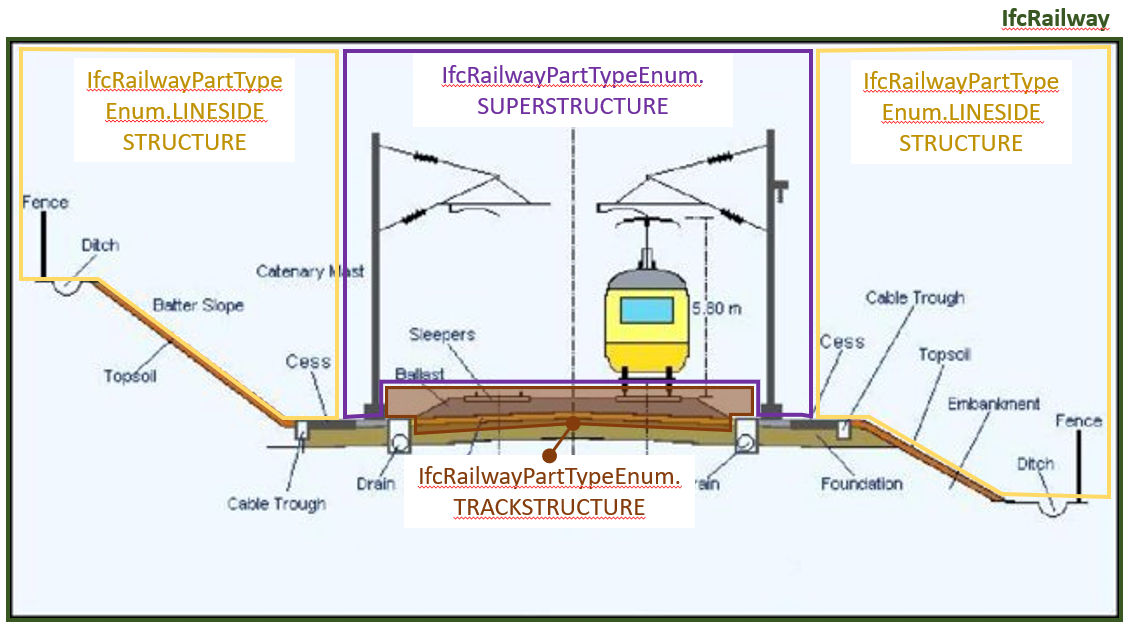
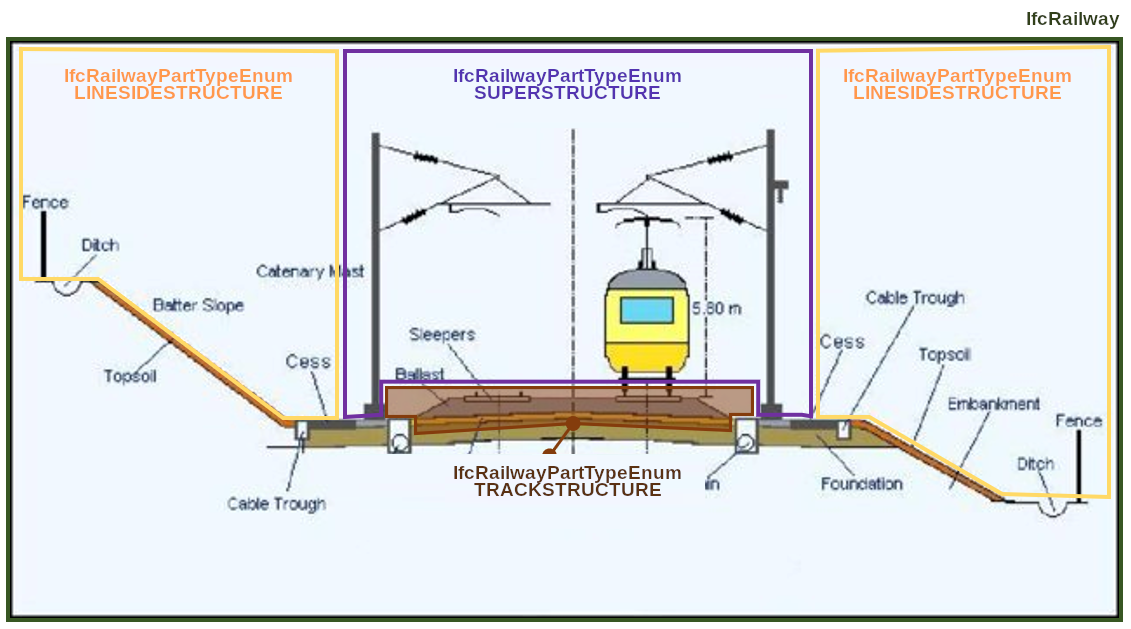
#287. Fix broken and spelling mistake in infrastructure images.

diff --git a/docs/schemas/resource/IfcGeometricModelResource/Entities/IfcSectionedSurface.md b/docs/schemas/resource/IfcGeometricModelResource/Entities/IfcSectionedSurface.md
@@ -2,18 +2,27 @@
 
 A kind of surface constructed by sweeping potentially varying open cross sections along a curve horizontally (or near horizontally). The surface is generated by sweeping the CrossSections between CrossSectionPositions; linear interpolation is assumed, unless transitions curves between cross section points are indicated by OpenCrossProfileDef.Tags.
 The CrossSections are oriented with the Y axis of each profile facing upwards in +Z direction or vertically perpendicular to the Directrix, depending on the Attribute FixedAxisVertical value.
-![sectioned surfacequot;](../../../../figures/IfcSectionedSurface_1.png Figure 1 &mdash; Sectioned surface using _IfcOpenCrossProfileDef_")
+
+![sectioned surface](../../../../figures/IfcSectionedSurface_1.png)
+
+Figure 1 &mdash; Sectioned surface using _IfcOpenCrossProfileDef_
 
 In case of branching longitudinal breaklines, the SectionedSurface may use OpenCrossProfileDef instances with varying number of cross section points. In that case, the point in two consecutive cross sections that are connected are identified by the same tag value.
-![sectioned surfacequot;](../../../../figures/IfcSectionedSurface_2.png Figure 1 &mdash; Sectioned surface with branching longitudinal breaklines")
+
+![sectioned surface](../../../../figures/IfcSectionedSurface_2.png)
+
+Figure 2 &mdash; Sectioned surface with branching longitudinal breaklines
 
 **Formal propositions:**
+
 * The curve entity which is the underlying directrix shall have the dimensionality of 3.
 * The profile type shall be CURVE within the list of the profiles defining the cross sections.
 * The entity type for each section must be the same.
 * The list of cross sections and the list of cross section positions shall be of the same size.
 
-**Informal Propositions:** No two consecutive sections shall intersect.
+**Informal Propositions:**
+
+* No two consecutive sections shall intersect.
 * If the directrix is not tangent continuous, the resulting surface is created by a miter at half angle between the two segments.
 * Very sharp edges may result in nearly impossible miter; implementer agreements may define acceptable limits for tangent discontinuity or require the directrix to be tangent continuous.
 * The directrix shall not intersect

diff --git a/docs/schemas/domain/IfcRailDomain/Types/IfcRailwayPartTypeEnum.md b/docs/schemas/domain/IfcRailDomain/Types/IfcRailwayPartTypeEnum.md
@@ -8,7 +8,10 @@ The spatial structure of a railway is sub-divided into several elements for late
 * SUPERSTRUCTURE is for the upper part of the railway (vertical decomposition).
 * LINESIDESTRUCTURE is for the lateral part of the railway (lateral decomposition).
 
-![Railway vertical and lateral spatial decomposition ](../../../../figures/IfcRailwayPartTypeEnum-global.png "Figure 1 &mdash; Railway decomposition")
+![Railway vertical and lateral spatial decomposition ](../../../../figures/IfcRailwayPartTypeEnum-global.png)
+
+Figure 1 &mdash; Railway decomposition
+
 The subpart of the railway is generally either a _IfcFacilityPartCommonTypeEnum_ BELOWGROUND (non constructed ground) or SUBSTRUCTURE (constructed ground).
 
 TRACKSTRUCTURE could have longitudinal decomposition based on track specificities:
@@ -18,7 +21,9 @@ TRACKSTRUCTURE could have longitudinal decomposition based on track specificitie
 * TURNOUTSUPERSTRUCTURE for the area of turnouts (_IfcElementAssemblyTypeEnum_ TURNOUTPANEL).
 * TRACKSTRUCTUREPART for generic longitudinal decomposition if needed.
 
-![Railway vertical and lateral spatial decomposition ](../../../../figures/IfcRailwayPartTypeEnum-track.png "Figure 2 &mdash; Track longitudinal decomposition")
+![Railway vertical and lateral spatial decomposition ](../../../../figures/IfcRailwayPartTypeEnum-track.png )
+
+Figure 2 &mdash; Track longitudinal decomposition
 
 More generic longitudinal subdivision is provided for LINESIDESTRUCTURE with LINESIDESTRUCTUREPART value if needed.
 
